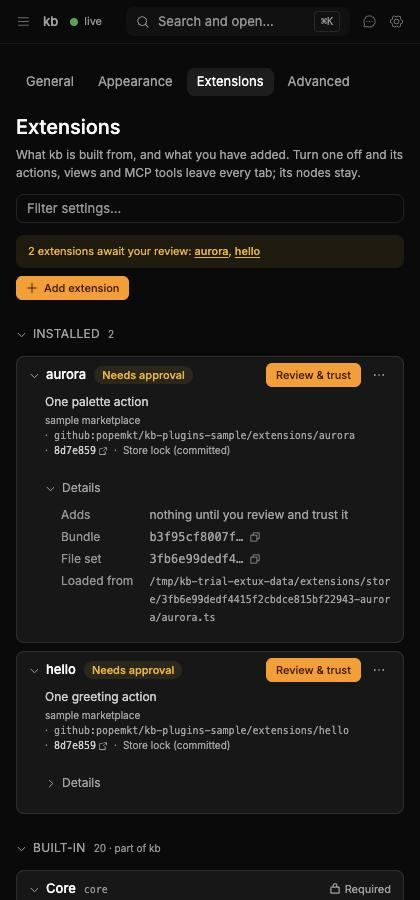
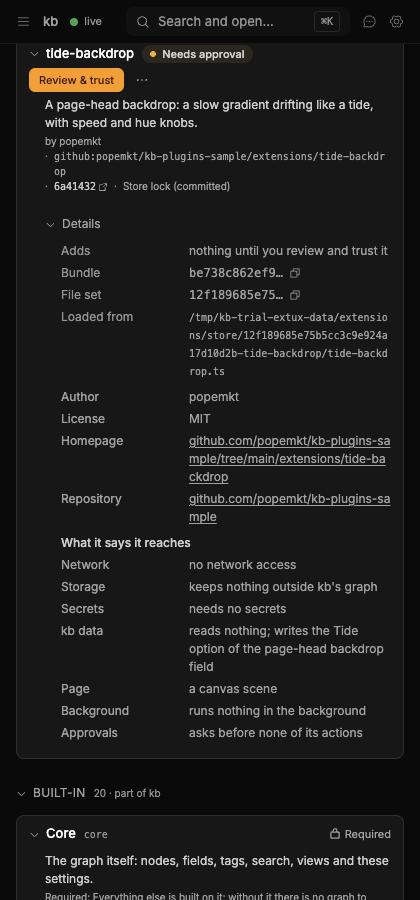
fix(ui): a card's term lists align, and the record shows the manifest
Details and what an extension says about itself are two term lists on one
card; they share one label column (`TERM_LIST`), so their values line up
instead of jogging by the width of their longest term. The UX record's
screenshots are retaken: the AA pills, the author on the source line, the
manifest in Details and on the review sheet, light and dark, desktop and
narrow.

diff --git a/packages/app/ui/src/components/prefs/extension-approval.tsx b/packages/app/ui/src/components/prefs/extension-approval.tsx
@@ -72,6 +72,9 @@ function Stated({ value, link }: { readonly value: string | undefined; readonly 
   );
 }
 
+/** An extension's term list: one label column wide enough for every term, so lists stacked on a card align. */
+export const TERM_LIST = "grid grid-cols-[7rem_minmax(0,1fr)] gap-x-4 gap-y-1";
+
 /**
  * What an extension says about itself (its manifest, docs/extensions/README.md):
  * who wrote it, its licence, where it lives, then each capability in plain
@@ -80,7 +83,7 @@ function Stated({ value, link }: { readonly value: string | undefined; readonly 
  */
 export function ExtensionAbout({ manifest }: { readonly manifest: ExtensionManifest | undefined }) {
   return (
-    <dl className="grid grid-cols-[max-content_minmax(0,1fr)] gap-x-4 gap-y-1" data-extension-about>
+    <dl className={TERM_LIST} data-extension-about>
       <dt className="text-foreground/60">Author</dt>
       <Stated value={manifest?.author} />
       <dt className="text-foreground/60">License</dt>

diff --git a/packages/app/ui/src/components/prefs/extension-card.tsx b/packages/app/ui/src/components/prefs/extension-card.tsx
@@ -28,7 +28,7 @@ import {
   type PanelExtensionGroup,
 } from "@/lib/extension-report";
 import { BUTTON, PRIMARY_BUTTON, SCOPES, useExtensionAction } from "./extension-actions";
-import { ExtensionAbout } from "./extension-approval";
+import { ExtensionAbout, TERM_LIST } from "./extension-approval";
 import { Disclosure } from "./settings-fold";
 
 /**
@@ -497,10 +497,7 @@ export function ExtensionDetails({
       ))}
       {row === undefined ? null : (
         <Disclosure id={`${nodeId}:details`} title="Details" level="inner" opensBy={false}>
-          <dl
-            className="grid grid-cols-[max-content_minmax(0,1fr)] gap-x-4 gap-y-1 text-meta"
-            data-testid={`details-${row.name}`}
-          >
+          <dl className={cn(TERM_LIST, "text-meta")} data-testid={`details-${row.name}`}>
             {adds.length === 0 ? (
               <Detail term="Adds">{STATUS[extensionStatus(row)].idle}</Detail>
             ) : (

diff --git a/docs/research/2026-11-08-extension-ux/README.md b/docs/research/2026-11-08-extension-ux/README.md
@@ -14,8 +14,9 @@ The trial server runs this branch against `~/Projects/kb-trial-extux`, with
 `KB_HOME=/tmp/kb-trial-extux-home`, `KB_DATA=/tmp/kb-trial-extux-data` and
 `KB_CACHE=/tmp/kb-trial-extux-cache`. The sample marketplace
 (`popemkt/kb-plugins-sample`) is already added, and `hello` and `aurora` are
-installed into the store lock but not trusted. The owner can review and
-trust them from their cards, or install `tide-backdrop` from Add extension.
+installed into the store lock but not trusted, as is `tide-backdrop` from
+the sample's manifest branch. The owner can review and trust them from
+their cards.
 
 The screenshots were taken in the BB desktop browser on popemkt-personal,
 in one tab that was closed after capture. They show only the trial store.
@@ -37,18 +38,24 @@ These are the problems the pass fixes:
 | | |
 | --- | --- |
 | ![after, top](after-1.jpg) | ![after, menu and built-ins](after-2.jpg) |
-| ![after, add panel](after-add.jpg) | ![after, dark](after-dark.jpg) |
-| ![after, review sheet](after-review.jpg) | |
+| ![after, add panel](after-add.jpg) | ![after, review sheet](after-review.jpg) |
+| ![after, details, dark](after-details.jpg) | ![after, details, light](after-light.jpg) |
 | ![narrow, light](after-narrow-light.jpg) | ![narrow, dark](after-narrow-dark.jpg) |
 
 What the screenshots show:
 - The Installed shelf comes first, then Built-in.
-- Each card has a status pill, its one line and its source: the marketplace, the GitHub path, the pin linked to GitHub, and the scope.
+- Each card has a status pill, its one line, who wrote it and its source: the marketplace, the GitHub path, the pin linked to GitHub, and the scope.
 - Each card has one primary action and an overflow menu.
 - Required families show a lock and give their reason.
-- Details stay folded, with short digests to copy.
+- Details stay folded, with short digests to copy, then what the extension says about itself: author, licence, links, and one line per capability.
 - There is one Add panel: marketplace entries with Install, then a paste field.
-- The review sheet is unchanged from #125.
+- The review sheet shows the same manifest before anything is trusted, says that a page half has full page power whatever tier it declares, and lists the manifest file in the line diff.
+
+`aurora` and `hello` are pinned to the sample's commit before it had
+manifests, so every field reads _not declared_. `tide-backdrop` was
+installed from the sample's manifest branch
+([popemkt/kb-plugins-sample#1](https://github.com/popemkt/kb-plugins-sample/pull/1))
+to show a declared one. All three are untrusted.
 
 ## What could move out of built-ins?
 
